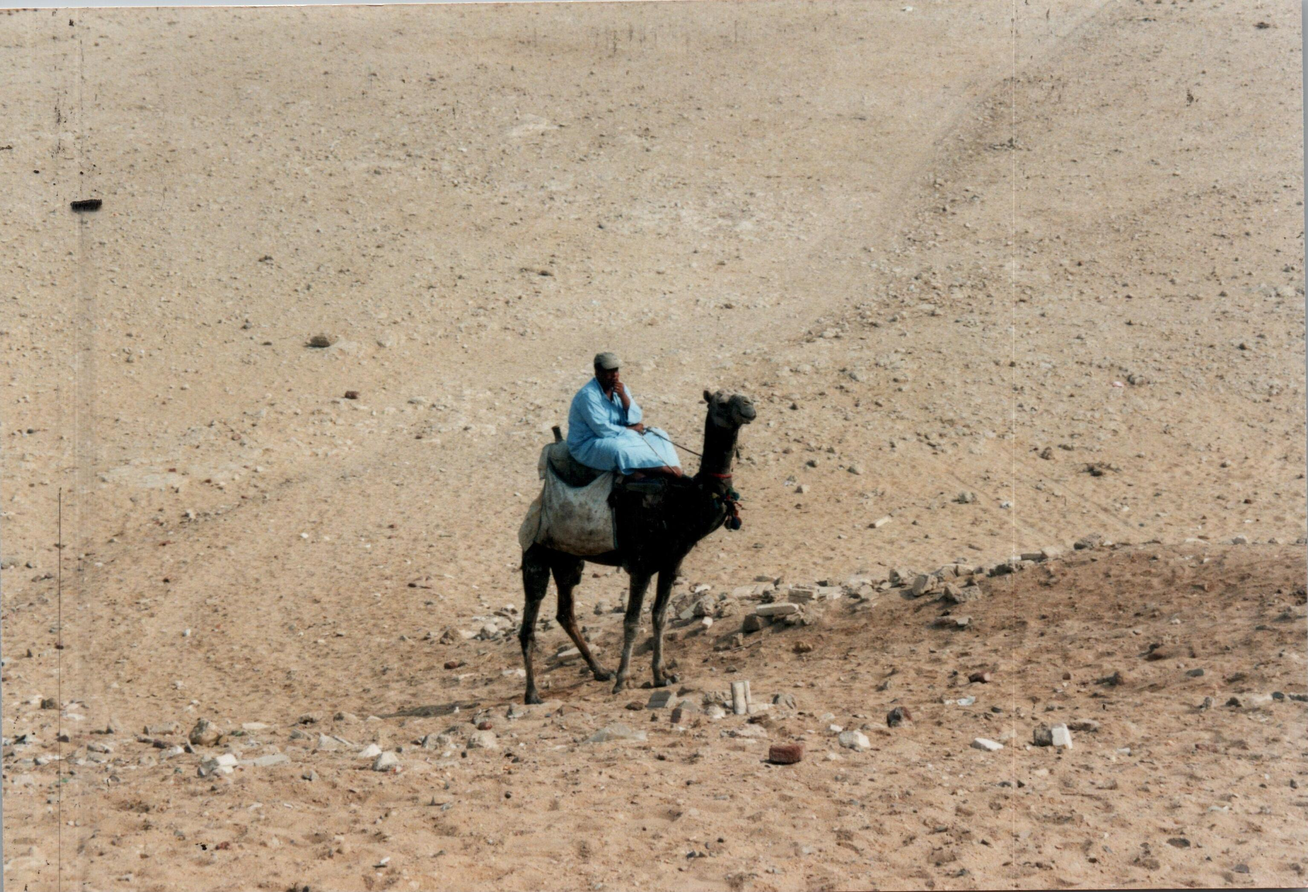
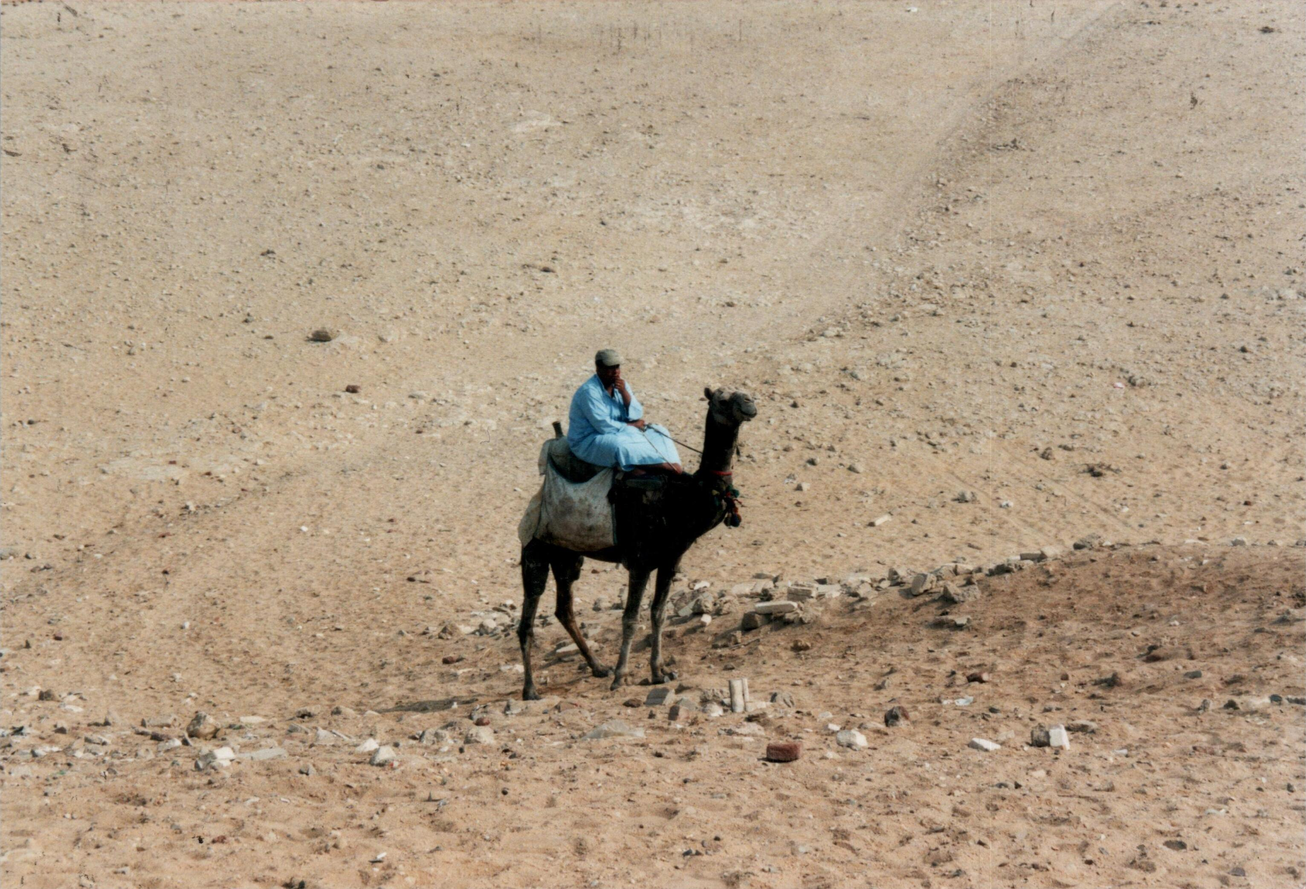
Referenzfoto

diff --git a/content/Paperless/Fotos-abfotografieren.md b/content/Paperless/Fotos-abfotografieren.md
@@ -10,70 +10,73 @@ toc: true
 
 ## Eingeklebte Fotos digitalisieren
 
-Lose Fotos bzw. Fotos die aus einem Album entnommen werden können und Negative waren der einfache Teil. Danke Dokumentenscanner und Film-/Negativ-Scanner kommt man durch die Fotoalben relativ schnell durch und hat eine brauchbare Qualität.
+Lose Fotos bzw. Fotos die aus einem Album entnommen werden können und Negative zu digitalisieren war der einfache Teil. Dank Dokumentenscanner und Film-/Negativ-Scanner kommt man durch die Fotoalben relativ schnell durch und hat eine durchaus brauchbare Qualität.
 
-Nun aber zum unschönen Teil: Fotos die in ein Album fest eingeklebt sind, sich also nicht entnehmen lassen und bei denen es auch keine Negative mehr gibt. Glücklicherweise sind die meisten Fotos in meiner Sammlung entnehmbar. Aber es gibt auch 4 - 5 Alben bei denen dies nicht der Fall ist. Was also tun?
+Nun aber zum unschönen Teil: Fotos die in ein Album fest eingeklebt sind, sich also nicht entnehmen lassen und bei denen es auch keine Negative mehr gibt. Glücklicherweise sind die meisten Fotos in meiner Sammlung entnehmbar. Aber es gibt auch 4 - 5 Alben bei denen dies nicht der Fall ist. Gerade diese Fotos sind immer wieder kritisch, weil die Klebstoffe nicht unbedingt ideal für die Fotos sind. Was also tun?
 
-Das naheliegendste wäre wohl zunächst einen Flachbettscanner zu verwenden. Allerdings habe ich hier zwei Probleme: Erstens habe ich  keinen Flachbettscanner. Nun könnte ich auf ein Multifunktionsgerät im Büro zurückgreifen. Aber das zweite Problem: Die meisten Fotoalben sind so dick, dass die Krümmung in der Mitte so stark ist, dass ein Einscannen mit dem Flachbettscanner unmöglich ist.
+Das Naheliegendste wäre wohl zunächst einen Flachbettscanner zu verwenden. Allerdings habe ich hier zwei Probleme: Erstens habe ich  keinen Flachbettscanner und zweitens sind meisten Fotoalben sind so dick, dass die Krümmung in der Mitte so stark ist, dass ein Einscannen mit dem Flachbettscanner unmöglich ist.
 
-Was bleibt also übrig: Abfotografieren mit einem Smartphone, für das es spezielle Foto-Scanner Apps gibt oder mit einer Spiegelreflexkamera (oder ähnliches).
+Was bleibt also übrig: Abfotografieren mit einem Smartphone, für welches es spezielle Foto-Scanner Apps gibt oder mit einer Spiegelreflexkamera (oder ähnlich guten Kamera). Schauen wir uns die unterschiedlichen Varianten näher an:
 
 ### Smartphone: Google Fotoscanner App
 
 Die Android-App welche man am häufigsten für diesen Anwendungszweck findet, ist die [Google Fotoscanner App](https://www.google.com/intl/de/photos/scan/).
 
-#### Datenschutz
+#### Fotoscanner - Datenschutz
 
 Grundsätzlich bin ich Google Apps gegenüber etwas skeptisch, was das Thema Datenschutz angeht. Aber die Fotoscanner App hat laut "Exodus Privacy" keinen einzigen Tracker integriert: (Stand 08.10.2020) [Link zum Exodus Report](https://reports.exodus-privacy.eu.org/en/reports/com.google.android.apps.photos.scanner/latest/) 
 
 
-Zudem erfolgt die Verarbeitung lokal auf dem eigenen Smartphone und auch die Ergebnisse werden lokal gespeichert. Also keine Cloud im Spiel.
+Zudem erfolgt die Verarbeitung lokal auf dem eigenen Smartphone und auch die Ergebnisse werden lokal gespeichert. Also keine Cloud im Spiel und Google bekommt von unseren Fotos nichts mit.
 
 
-#### Preis
+#### Fotoscanner - Preis
 
 Den Google Fotoscanner gibt es kostenlos. Ohne InApp-Käufe, Abomodell oder ähnliches. 
 
-#### Betriebssysteme
+#### Fotoscanner - Betriebssysteme
 
 Die App ist sowohl für iOS (iPhones) als auch für Android verfügbar.
 
 
-#### Workflow
+#### Fotoscanner - Workflow
 
-Der Bedienung der App ist sehr intuitiv, da es nicht viele Einstellmöglichkeiten gibt. Es gibt zwei Optionen:
+Der Bedienung der App ist sehr intuitiv, da es nicht viele Einstellmöglichkeiten gibt. Es gibt nur zwei Optionen:
 
-	* Smartphone Licht: aktivieren / deaktivieren (Blitz Symbol)
-	* Spiegelungen entfernen aktivieren: / deaktivieren (Zauberstab)
-
-
-Mit aktiver "Zauberstab-Funktion" fokusiert man nun das Foto im angezeigten Rahmen und drückt auf den Auslöser. Nun werden vier weiße große Punkte angezeigt, welche man nun jeweils nacheinander fokusieren muss. Hat man dies erledigt, dann versucht die App alle Spiegelungen auf dem Foto zu entfernen.
-
-<img src="https://write.tchncs.de/static/media/A270079D-82A6-3791-91CA-90BC8AE191EF.png" alt="Fotoscanner Verwendung" width="300"/> (Zauberstab-Funktion)
-
-Deaktiviert man die "Zauberstab-Funktion", kann man einfach Foto für Foto abfotografieren. Spiegelungen werden dann jedoch nicht entfernt.
-
-Der Zeitunterschied ist immens: Mit Zauberstab braucht man circa 10 - 15 Sekunden pro Foto. Ohne Zauberstab ist das ganze in einer Sekunde erledigt. Allerdings dann eben auch ohne Korrektur der Spiegelungen.
-
-Die zweite Option, die Verwendung des Kameralichtes ist zwar in den offiziellen Dokumentation der App empfohlen, ich kann diese Empfehlung jedoch nicht teilen. Aktiviere ich das Licht, sieht man bei vielen Fotos die Körnung des Fotoabzugs. Dies kann die App auch nicht herausrechnen. Also besser: Smartphone-Licht deaktivieren und für eine gute Belichtung im Raum sorgen. Dies verhindert auch Spiegelungen, so dass man auch die "Zauberstab-Funktion" deaktivieren kann.
-
-Nach dem Abfotografieren kann man unten rechts in die Galerie gehen und sich das Ergebnis betrachten. Neben dem reinen betrachten gibt es dort auch die Option das Foto korrekt zu rotieren und ggf. die Ecken anzupassen. Die App versucht immer die Ränder eines Fotos korrekt zu erkennen und somit nur das eigentliche Foto darzustellen. Meiner Erfahrung nach funktioniert dies sehr gut. Sollte es mal nicht klappen, kann man über die "Ecken korrigieren"-Funktion nachhelfen.
+* Smartphone Licht: aktivieren / deaktivieren (Blitz Symbol)
+* Spiegelungen entfernen: aktivieren / deaktivieren (Zauberstab)
 
 
-#### Ergebnis
+Mit aktiver "Zauberstab-Funktion" fokusiert man nun das Foto im angezeigten Rahmen und drückt auf den Auslöser. Nun werden vier weiße große Punkte angezeigt, welche man nun jeweils nacheinander abfahren muss. Hat man dies erledigt, versucht die App alle vorhandenen Spiegelungen auf dem Foto zu entfernen und ein perfektes Ergebnis zu berechnen.
+
+<img src="https://write.tchncs.de/static/media/A270079D-82A6-3791-91CA-90BC8AE191EF.png" alt="Fotoscanner Verwendung" width="300"/> <center>(Zauberstab-Funktion)</center>
+
+Deaktiviert man die "Zauberstab-Funktion", kann man Foto für Foto abfotografieren ohne, dass man die Punkte abfahren muss. Spiegelungen werden dann jedoch nicht entfernt.
+
+Der Zeitunterschied ist hier immens: Mit Zauberstab braucht man circa 10 - 15 Sekunden pro Foto. Ohne Zauberstab ist das ganze in einer Sekunde erledigt. Allerdings dann eben auch ohne Korrektur der Spiegelungen.
+
+Die zweite Option, die Verwendung des Kameralichtes ist zwar in den offiziellen Dokumentation der App empfohlen, ich kann diese Empfehlung jedoch nicht teilen. Aktiviere ich das Licht, sieht man bei vielen Fotos die Körnung des Fotoabzugs. Dies kann die App auch nicht herausrechnen. Also besser: Smartphone-Licht deaktivieren und für eine gute Beleuchtung im Raum sorgen. Auch dies verhindert Spiegelungen, so dass man auch die "Zauberstab-Funktion" nicht braucht.
+
+Nach dem Abfotografieren kann man unten rechts in die Galerie gehen und sich das Ergebnis ansehen. Neben dem reinen Betrachten gibt es dort auch die Option das Foto zu rotieren und ggf. die Ecken anzupassen. Die App versucht immer die Ränder eines Fotos korrekt zu erkennen und somit nur das eigentliche Foto darzustellen. Meiner Erfahrung nach funktioniert dies sehr gut. Sollte es mal nicht klappen, da zum Beispiel die Kontraste zwischen Foto und Fotoalbum zu gering sind, kann man entsprechend manuell nachhelfen.
+
+Die Ergebnisse sind anschließend in der Bildergalerie des Smartphones verfügbar.
+
+#### Fotoscanner - Ergebnis
 
 Sehen wir uns das Ergebnis an. Links ist das Referenzfoto das mit dem Dokumentenscanner Brother ADS-1200 gescannt wurde und sehr nahe an das Original herankommt:
 
 ![Dokumentenscanner vs Fotoscanner](6247)
+<center>(Referenzfoto vs. Fotoscanner)</center>
 
 Das Ergebnis weicht farblich deutlich vom Original ab. Auch sind einige Farbdetails gar nicht wahrzunehmen, wie beispielsweise das rote Halsband des Kamels. Details sind teilweise gar nicht zu erkennen. z.B. die Finger des Reiters.
 
 * Dateigröße: 1,5 MB
 * Auflösung: 2000 x 1333 px
 
+Da die Darstellung der Bilder hier im Blog nicht ideal ist, hier die Links zu den Originalen:
 
 
-* [Link zum Referenzfoto](https://raw.githubusercontent.com/rsmuc/rsmuc.github.io/test/content/Paperless/pictures/Fotoscanner/Refrenzfoto.jpg)
+* [Link zum Referenzfoto](https://raw.githubusercontent.com/rsmuc/rsmuc.github.io/test/content/Paperless/pictures/Fotoscanner/Referenzfoto.jpg)
 * [Link zum Resultat von Google Fotoscanner](https://raw.githubusercontent.com/rsmuc/rsmuc.github.io/test/content/Paperless/pictures/Fotoscanner/Fotoscanner-Ergebnis.jpg)
 * [Link zur direkten Gegenüberstellung](https://raw.githubusercontent.com/rsmuc/rsmuc.github.io/test/content/Paperless/pictures/Fotoscanner/Dokumentenscanner%20vs%20Google%20Fotoscanner.png)
 
@@ -82,21 +85,19 @@ Das Ergebnis weicht farblich deutlich vom Original ab. Auch sind einige Farbdeta
 
 Bei meiner Rechereche im Google Play Store bin ich dann noch über die App "Photomyne" für Android gestolpert.
 
-#### Datenschutz
+#### Photomyne - Datenschutz
 
-Schauen wir uns das Thema Datenschutz an. Laut Exodus Privacy integriert die App insgesamt 8 Tracker und benötigt 13 Berechtigungen. Unter anderem das Aufnehmen von Audio und das Deaktivieren des Ruhemodus: [Link zum Exodus Report](https://reports.exodus-privacy.eu.org/en/reports/com.photomyne/latest/) 
+Schauen wir uns das Thema Datenschutz an. Laut Exodus Privacy integriert die App insgesamt 8 Tracker und benötigt 13 Berechtigungen. Unter anderem das Aufnehmen von Audio und das Deaktivieren des Ruhemodus. Wozu auch immer die App diese Berechtigungen braucht.: [Link zum Exodus Report](https://reports.exodus-privacy.eu.org/en/reports/com.photomyne/latest/) 
 
 Es gibt keine Option die Tracker zu deaktivieren.
 
-Zur Verwendung der App benötigt man einen kostenpflichtigen Account. Hat man sich diesen angelegt werden alle Fotos, die man mit der App erfasst als Backup und zum Datenaustausch mit dem PC in den Cloud Dienst von Photmyne hochgeladen. Diese Funktion lässt sich auch nicht deaktivieren.
-
-Zudem gibt es auch keine Option einen Account selbst zu löschen. 
+Zur Verwendung der App benötigt man einen kostenpflichtigen Account. Hat man sich diesen angelegt werden alle Fotos, die man mit der App erfasst als Backup und zum Datenaustausch mit dem PC in den Cloud Dienst von Photmyne hochgeladen. Diese Funktion lässt sich auch nicht deaktivieren. Zudem gibt es auch keine Option einen Account zu löschen. 
 
 Aus Sicht des Datenschutz: Durchgefallen mit Note 6.
 
 
 
-#### Preis
+#### Photomyne - Preis
 
 Die App ist kostenpflichtig. Was erst mal kein Problem ist. Es gibt unterschiedliche Modelle:
 
@@ -108,7 +109,7 @@ Aber Achtung: Bei der angeblichen einmaligen Zahlung gilt das Abo nur für 5 Jah
 
 Die kostenpflichtige Version kann 3 Tage kostenlos getestet werden. (Achtung: Kündigung nicht vergessen!)
 
-#### Workflow
+#### Photomyne - Workflow
 
 Der Workflow unterscheidet sich leicht von der Fotoscanner App. Photomyne kann selbst Alben verwalten. Man hat also alles sauber sortiert.
 
@@ -123,30 +124,31 @@ Anschließend können die Fotos auf das Smartphone exportiert werden oder über 
 <img src="
 https://write.tchncs.de/static/media/3C9E76CC-9ED9-7817-F94F-C07570B15E3B.png" alt="Photomyne Verwendung" width="300"/>
 
-### Ergebnisse
+### Photomyne - Ergebnis
 
 Auch hier ein Vergleich mit dem Referenzfoto:
 
 ![Dokumentenscanner vs Photomyne](6251)
+(Referenzfoto vs. Photomyne)
  
 
-Die Ergebnisse sind ähnlich zum Google Fotoscanner. Deutliche Farbabweichungen und wenig Details.
+Die Ergebnisse sind ähnlich zum Google Fotoscanner. Deutliche Farbabweichungen und wenig Details. Von den Farben jedoch etwas besser als bei Google. Dafür mit einer deutlichen Verzerrung, im Vergleich zum Referenzbild.
 
 * Dateigröße: 1,1 MB
 * Auflösung: 3400 x 2300 px
 
 
 
-* [Link zum Referenzfoto](https://raw.githubusercontent.com/rsmuc/rsmuc.github.io/test/content/Paperless/pictures/Fotoscanner/Refrenzfoto.jpg)
+* [Link zum Referenzfoto](https://raw.githubusercontent.com/rsmuc/rsmuc.github.io/test/content/Paperless/pictures/Fotoscanner/Referenzfoto.jpg)
 * [Link zum Resultat von Photomyne](https://raw.githubusercontent.com/rsmuc/rsmuc.github.io/test/content/Paperless/pictures/Fotoscanner/Photomyne%20Ergebnis.png)
 * [Link zur direkten Gegenüberstellung](https://raw.githubusercontent.com/rsmuc/rsmuc.github.io/test/content/Paperless/pictures/Fotoscanner/Dokumentenscanner%20vs%20Photomyne.png)
 
 
-### CamScanner
+### Smartphone: CamScanner
 
 Als dritte Android-App, kommt noch Camscanner in Frage.
 
-#### Datenschutz
+#### CamScanner - Datenschutz
 
 CamScanner glänzt mit insgesamt 12 Trackern in der App. Alles was Rang und Namen ist mit an Board:
 
@@ -157,13 +159,13 @@ Es gibt auch hier keine Option die Tracker zu deaktivieren. Dafür gibt es immer
 
 Trotzdem nicht unbedenklich.
 
-#### Preis
+#### CamScanner - Preis
 
 CamScanner ist eine Lösung die deutlich mehr kann als nur Fotos "scannen". CamScanner hat auch eine OCR-Funktion und vieles weiteres mit dabei.
 
 Zum einfachen digitalisieren von Fotos reicht die kostenlose Version. Soll es dann etwas mehr sein bzw. wird die höchte Auflösung gebraucht, wird die Premium-Version für 49,99 € pro Jahr fällig.
 
-#### Workflow
+#### CamScanner - Workflow
 
 Der Workflow ist sehr ähnlich zu den anderen beiden Apps. CamScanner sortiert die Fotos nach dem Aufnehmen in automatisch gennerierte interne Alben.
 Nachdem man ein Foto abfotografiert hat, erscheint sofort die Kantenkorrektur, welche man im Normalfall nur bestätigen muss.
@@ -175,9 +177,10 @@ https://write.tchncs.de/static/media/37299C64-31F9-3916-6D3B-5EC2D2AE8482.png" a
 
 Möchte man nun in der kostenlosen Version die Fotos exportieren, selektiert man einfach alle Fotos und wählt "Teilen" und "in JPG-Format teilen" aus. Anschließend kann man auswählen wo die Fotos auf dem Smartphone gespeichert werden sollen. Fertig.
 
-#### Ergebnis
+#### CamScanner - Ergebnis
 
 ![Dokumentenscanner vs CamScanner](6252)
+(Referenzfoto vs. CamScanner)
  
 CamScanner kann, obwohl das gleiche Smartphone verwendet wurde, die besten Ergebnisse erzielen. Farbdetails (Halsband) und auch Feinheiten (Finger) sind deutlicher zu erkennen, als bei Google Photoscanner und Photomyne.
 
@@ -186,7 +189,7 @@ CamScanner kann, obwohl das gleiche Smartphone verwendet wurde, die besten Ergeb
 * Auflösung: 3400 x 2400 px
 
 
-* [Link zum Referenzfoto](https://raw.githubusercontent.com/rsmuc/rsmuc.github.io/test/content/Paperless/pictures/Fotoscanner/Refrenzfoto.jpg)
+* [Link zum Referenzfoto](https://raw.githubusercontent.com/rsmuc/rsmuc.github.io/test/content/Paperless/pictures/Fotoscanner/Referenzfoto.jpg)
 * [Link zum Resultat von CamScanner](https://raw.githubusercontent.com/rsmuc/rsmuc.github.io/test/content/Paperless/pictures/Fotoscanner/CamScannerErgebnis.jpg)
 * [Link zur direkten Gegenüberstellung](https://raw.githubusercontent.com/rsmuc/rsmuc.github.io/test/content/Paperless/pictures/Fotoscanner/Dokumentenscanner%20vs%20CamScanner.png)
 
@@ -195,12 +198,12 @@ CamScanner kann, obwohl das gleiche Smartphone verwendet wurde, die besten Ergeb
 
 Als letzte Option bleibt noch das Abfotografieren der Fotos mit der Spiegelreflex Kamera und das Nachbearbeiten am PC mit ScannedImageExtractor.
 
-#### Datenschutz und Preis
+#### Spiegelreflex - Datenschutz und Preis
 
 ScannedImageExtractor ist OpenSource Software und unterliegt der GPLv3. Was das Thema Datenschutz und Preis angeht, sind wir hier also auf der sicheren Seite.
 
 
-### Workflow
+### Spiegelreflex - Workflow
 
 Der grundlegende Workflow ist einfach:
 
@@ -232,7 +235,7 @@ Die letzte Entwicklung an der Software ist 2015 passiert.
 ---
 
 
-### Ergebnisse
+### Spiegelreflex - Ergebnis
 
 ![scannedImageExtractor Ergebnis](6242)
 (vor der Digikam Autokorrektur)
@@ -241,6 +244,7 @@ Die letzte Entwicklung an der Software ist 2015 passiert.
 (nach der Digikam Autokorrektur)
 
 ![Dokumentenscanner vs Spiegelreflex](6253)
+(Referenzfoto vs. Spiegelreflex)
  
 Dateigröße: 2,4 MB
 Auflösung: 3500 x 2300 px
@@ -248,11 +252,11 @@ Auflösung: 3500 x 2300 px
 
 Nach der Autokorrektur mit Digikam, sind die Farben und auch die Farbdetails (Halsband) am besten. Von der Qualität bei den Details (Finger) kann das Abfotografieren mit der Spiegelreflex mit CamScanner erstaunlicherweise nicht mithalten. 
 
-* [Link zum Referenzfoto](https://raw.githubusercontent.com/rsmuc/rsmuc.github.io/test/content/Paperless/pictures/Fotoscanner/Refrenzfoto.jpg)
+* [Link zum Referenzfoto](https://raw.githubusercontent.com/rsmuc/rsmuc.github.io/test/content/Paperless/pictures/Fotoscanner/Referenzfoto.jpg)
 * [Link zum Resultat der Spiegelreflex](https://raw.githubusercontent.com/rsmuc/rsmuc.github.io/test/content/Paperless/pictures/Fotoscanner/ImageExtractor_Result_Autocorrection.jpg)
 * [Link zur direkten Gegenüberstellung](https://raw.githubusercontent.com/rsmuc/rsmuc.github.io/test/content/Paperless/pictures/Fotoscanner/Dokumentenscanner%20vs%20Spiegelreflex.png)
 
-### Fazit
+## Fazit
 
 Wer hätte schon gedacht, dass Google die datenschutzfreundlichste Android-App ins Rennen schickt? Aus Datenschutzsicht kommt nur der Google Fotoscanner und das Fotografieren mit der Spiegelreflex mit anschließender Nachbearbeitung unter Linux in Frage.
 
@@ -262,5 +266,16 @@ Photomyne fällt wegen der Datenschutzbedenken und auch der Ergebnisse komplett 
 
 Der Unterschied zum Dokumentenscanner ist bei allen Varianten erheblich. Wenn Möglich sollte man also immer die Fotos entnehmen und mit einem ordentlichen Scanner einscannen. Zudem entfällt damit auch das Problem von Verzerrungen.
 
-Der Aufwand ist für alle Varianten ähnlich hoch. Ich persönlich werde wohl, wo es notwendig ist, die CamScanner App in Kombination mit Blokada nutzen.
+Der Aufwand ist für alle Varianten ähnlich hoch und alle Varianten liefern brauchbare Ergebnisse. Ich persönlich werde wohl, wo es notwendig ist, die CamScanner App in Kombination mit Blokada nutzen.
 
+
+---
+
+***Hinweise:***
+
+* Vielen Dank an @dadosch@social.tchncs.de für den Hinweis bzgl. scannedImageExtractor.
+
+* Im Referenzfoto befindet sich Links eine Verunreinigung, welche auf eine Verschmutzung des Scanners zurückzuführen ist.
+
+
+---
